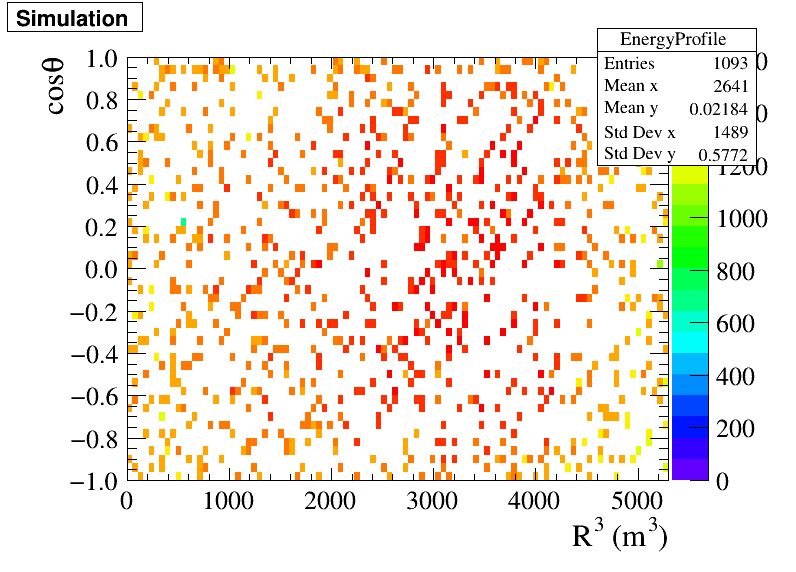
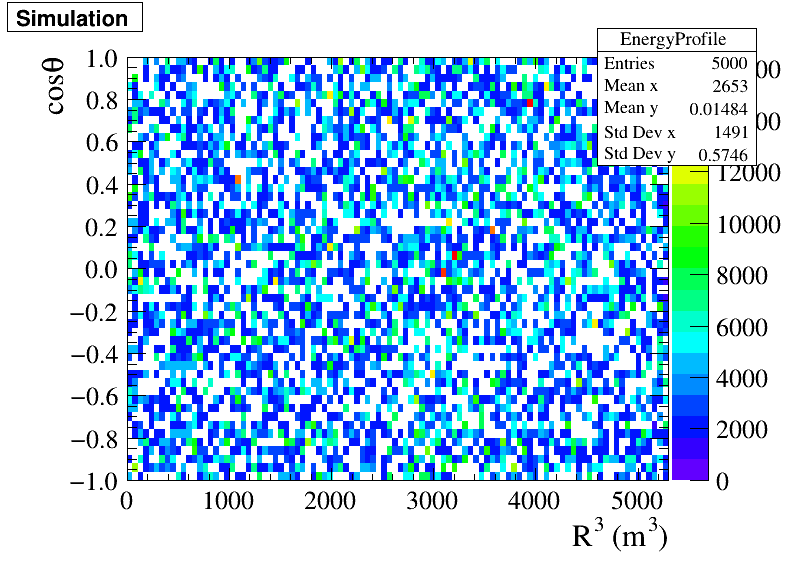
hitTime too much

diff --git a/Roottest/EnergyLeakage/GetPE2R3.h b/Roottest/EnergyLeakage/GetPE2R3.h
@@ -24,8 +24,8 @@
 class GetPE2R3 : public TSelector
 {
 public:
-   TTreeReader fReader;         //!the tree reader
-   TTree *fChain = 0;           //!pointer to the analyzed TTree or TChain
+   TTreeReader evtReader;         //!the tree reader
+   TTree *evt = 0;           //!pointer to the analyzed TTree or TChain
    TTree *prmtrkdep = 0;        //tree friend
    TTreeReader prmtrkdepReader; //!the tree reader
    TTree *geninfo = 0;          //tree friend
@@ -34,14 +34,14 @@ public:
    TTreeReader nCaptureReader;  //!the tree reader
 
    // Readers to access the data (delete the ones you do not need).
-   // TTreeReaderValue<Int_t> nPhotons = {fReader, "nPhotons"};
-   TTreeReaderValue<Int_t> totalPE = {fReader, "totalPE"};
-   // TTreeReaderArray<Int_t> nPE = {fReader, "nPE"};
-   TTreeReaderArray<Double_t> hitTime = {fReader, "hitTime"};
-   // TTreeReaderValue<Float_t> edep = {fReader, "edep"};
-   // TTreeReaderValue<Float_t> edepX = {fReader, "edepX"};
-   // TTreeReaderValue<Float_t> edepY = {fReader, "edepY"};
-   // TTreeReaderValue<Float_t> edepZ = {fReader, "edepZ"};
+   // TTreeReaderValue<Int_t> nPhotons = {evtReader, "nPhotons"};
+   TTreeReaderValue<Int_t> totalPE = {evtReader, "totalPE"};
+   // TTreeReaderArray<Int_t> nPE = {evtReader, "nPE"};
+   TTreeReaderArray<Double_t> hitTime = {evtReader, "hitTime"};
+   // TTreeReaderValue<Float_t> edep = {evtReader, "edep"};
+   // TTreeReaderValue<Float_t> edepX = {evtReader, "edepX"};
+   // TTreeReaderValue<Float_t> edepY = {evtReader, "edepY"};
+   // TTreeReaderValue<Float_t> edepZ = {evtReader, "edepZ"};
    TTreeReaderArray<Float_t> edep = {prmtrkdepReader, "edep"};
    TTreeReaderArray<Float_t> InitX = {geninfoReader, "InitX"};
    TTreeReaderArray<Float_t> InitY = {geninfoReader, "InitY"};
@@ -52,9 +52,8 @@ public:
    TH2F *h_ep;
    TH2I *h_ep_count;
 
-
    GetPE2R3(TTree * /*tree*/ = 0) { Reset(); }
-   virtual ~GetPE2R3() { }
+   virtual ~GetPE2R3() {}
    virtual Int_t Version() const { return 2; }
    virtual void Begin(TTree *tree);
    virtual void SlaveBegin(TTree *tree);
@@ -70,7 +69,7 @@ public:
       //    geninfo->GetTree()->GetEntry(entry, getall);
       // if (option.Contains("nCapture"))
       //    nCapture->GetTree()->GetEntry(entry, getall);
-      return fChain ? fChain->GetTree()->GetEntry(entry, getall) : 0;
+      return evt ? evt->GetTree()->GetEntry(entry, getall) : 0;
    }
    virtual void SetOption(const char *option) { fOption = option; }
    virtual void SetObject(TObject *obj) { fObject = obj; }
@@ -78,7 +77,11 @@ public:
    virtual TList *GetOutputList() const { return fOutput; }
    virtual void SlaveTerminate();
    virtual void Terminate();
-   void Reset() { h_ep = 0; }
+   void Reset()
+   {
+      h_ep = 0;
+      h_ep_count = 0;
+   }
    ClassDef(GetPE2R3, 0);
 
 private:
@@ -108,7 +111,7 @@ void GetPE2R3::Init(TTree *tree)
    // Init() will be called many times when running on PROOF
    // (once per file to be processed).
 
-   fReader.SetTree(tree);
+   evtReader.SetTree(tree);
    TString option = GetOption();
    if (option.Contains("prmtrkdep"))
    {

diff --git a/Roottest/EnergyLeakage/GetPE2R3.C b/Roottest/EnergyLeakage/GetPE2R3.C
@@ -58,7 +58,7 @@ void GetPE2R3::SlaveBegin(TTree * /*tree*/)
    // for (int i = 0; i < TotalBin; i++)
    //    BinValue[i] = 0;
 }
-
+int ttt = 0;
 Bool_t GetPE2R3::Process(Long64_t entry)
 {
    // The Process() function is called for each entry in the tree (or possibly
@@ -76,28 +76,35 @@ Bool_t GetPE2R3::Process(Long64_t entry)
    // Use fStatus to set the return value of TTree::Process().
    //
    // The return value is currently not used.
-   TString option = GetOption();
+   // TString option = GetOption();
    // if (option.Contains("prmtrkdep") && option.Contains("geninfo")&&option.Contains("nCapture"))
    // {
-   fReader.SetLocalEntry(entry);
+   evtReader.SetLocalEntry(entry);
    prmtrkdepReader.SetLocalEntry(entry);
    // printf("hitTime:%f\n", hitTime[0]);
    // printf("edep:%f\n", edep.At(1));
    geninfoReader.SetLocalEntry(entry);
    nCaptureReader.SetLocalEntry(entry);
    TVector3 EvtPos(InitX[0] / 1e3, InitY[0] / 1e3, InitZ[0] / 1e3);
-   int PromptCount(0);
-   for (int j = 0; j < *totalPE; j++)
-   { //avoid short time capture
-      if (hitTime[j] < PromptTimeCut && NeutronCaptureT[0] > PromptTimeCut)
-      {
-         PromptCount++;
-      }
-   }
+   int PromptCount = *totalPE; //0;
+   // for (int j = 0; j < *totalPE; j++)
+   // { //avoid short time capture
+   //    if (hitTime[j] < PromptTimeCut && NeutronCaptureT[0] > PromptTimeCut)
+   //    {
+   //       PromptCount++;
+   //    }
+   //    if (ttt < 100)
+   //    {
+   //       printf("j:%d\thitTime:%f\n", j, hitTime[j]);
+   //       ttt++;
+   //    }
+   // }
    float Photon2edep(PromptCount / edep[0]);
+   // printf("edepra:%f\tra:%f\n", edep[0] / (edep[1] + edep[0]),
+   //        (float)PromptCount / *totalPE);
    double R_cubic = pow(EvtPos.Mag2(), 1.5);
    double Costheta = EvtPos.CosTheta();
-   // printf("x:%f\ty:%f\tz:%f\n", R_cubic, Costheta, Photon2edep);
+   // // printf("x:%f\ty:%f\tz:%f\n", R_cubic, Costheta, Photon2edep);
    h_ep->Fill(R_cubic, Costheta, Photon2edep);
    h_ep_count->Fill(R_cubic, Costheta);
    return kTRUE;
@@ -116,18 +123,21 @@ void GetPE2R3::Terminate()
    // The Terminate() function is the last function to be called during
    // a query. It always runs on the client, it can be used to present
    // the results graphically or save the results to file.
+
    h_ep = dynamic_cast<TH2F *>(fOutput->FindObject("EnergyProfile"));
    h_ep_count = dynamic_cast<TH2I *>(fOutput->FindObject("hep_Counts"));
    TCanvas c("myCanvasName", "The Canvas Title", 800, 600);
-   //calculate average
-   h_ep->Divide(h_ep,h_ep_count);
-   
+   // //calculate average
+   // h_ep->Divide(h_ep,h_ep_count);
+
    h_ep->SetXTitle("R^{3} (m^{3})");
    h_ep->SetYTitle("cos#theta");
    h_ep->Draw("colz");
+   // h_ep_count->Draw("colz");
    c.SaveAs("totalPE2R3.png");
    TFile ff_PE2R3("totalPE2R3.root", "RECREATE");
    ff_PE2R3.cd();
    h_ep->Write();
+   h_ep_count->Write();
    ff_PE2R3.Close();
 }
